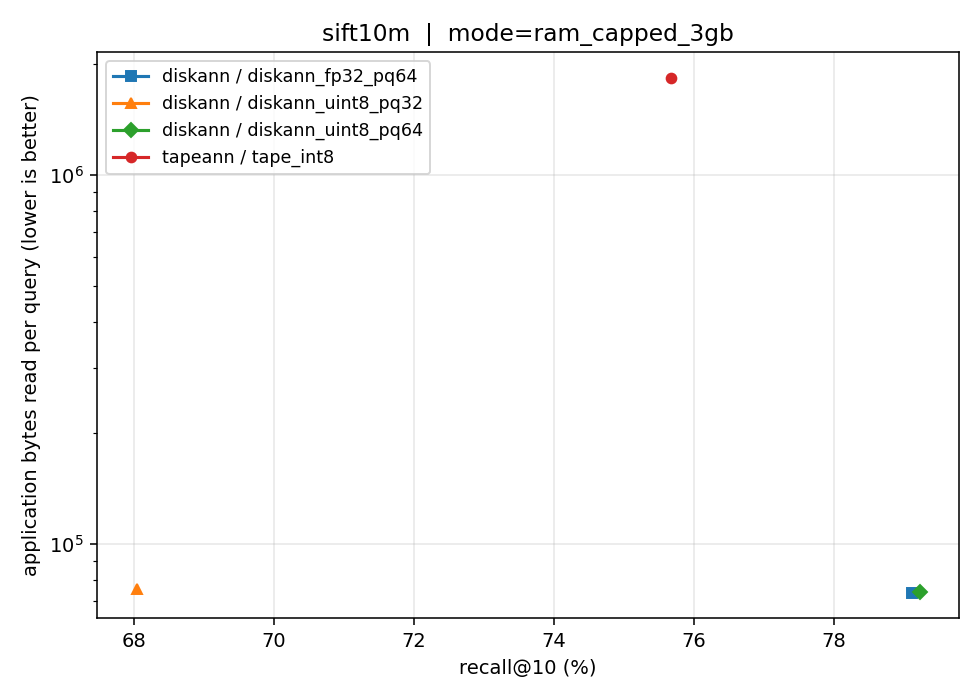
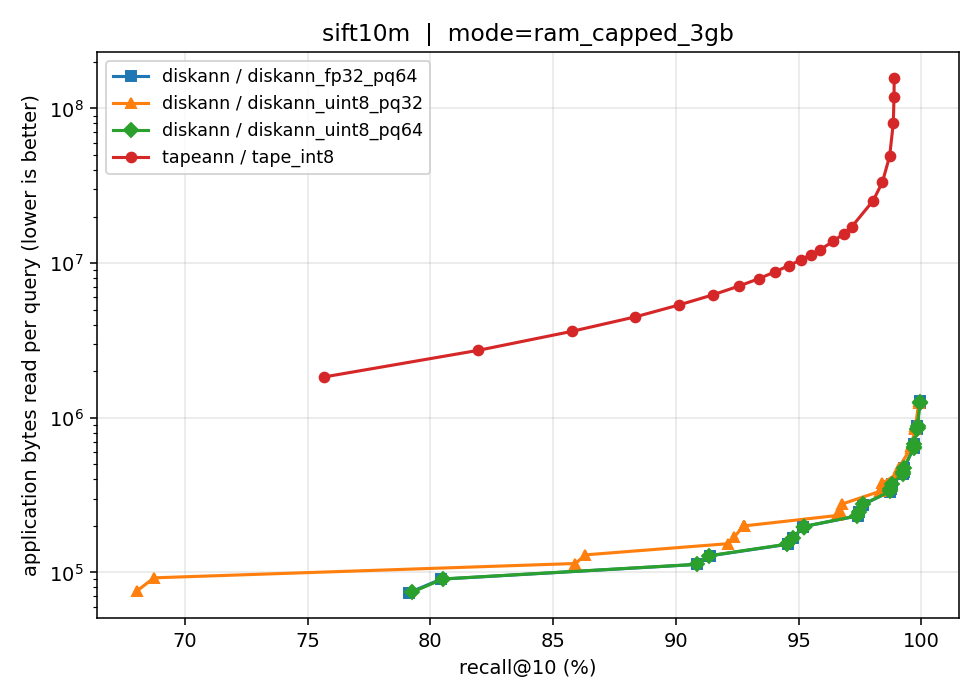
missing stuff added

diff --git a/bench/analyze/plots.py b/bench/analyze/plots.py
@@ -44,16 +44,26 @@ def group_by(rows, *keys):
 
 
 def envelope(points, x_key, y_key, minimize_y=True):
-    """Keep only Pareto-optimal (x desc, y asc if minimize else desc)."""
+    """Return Pareto-optimal (x, y) pairs: higher x is always better; y is
+    better when lower (minimize_y=True) or higher (minimize_y=False).
+
+    A point is kept iff no other point has both higher-or-equal x AND
+    better-or-equal y.  Algorithm: sort by x descending and keep each point
+    whose y is at least as good as the best y seen so far among higher-x
+    points — equivalent to sweeping from the high-recall end and keeping
+    points that improve the performance frontier."""
     pts = [(p, _f(p[x_key]), _f(p[y_key])) for p in points]
     pts = [(p, x, y) for (p, x, y) in pts if x is not None and y is not None]
-    pts.sort(key=lambda t: (t[1], t[2] if minimize_y else -t[2]))
+    if not pts:
+        return []
+    pts.sort(key=lambda t: (-t[1], t[2] if minimize_y else -t[2]))
     out = []
     best = None
     for _, x, y in pts:
-        if best is None or (minimize_y and y < best) or (not minimize_y and y > best):
+        if best is None or (minimize_y and y <= best) or (not minimize_y and y >= best):
             out.append((x, y))
             best = y
+    out.sort()
     return out
 
 
